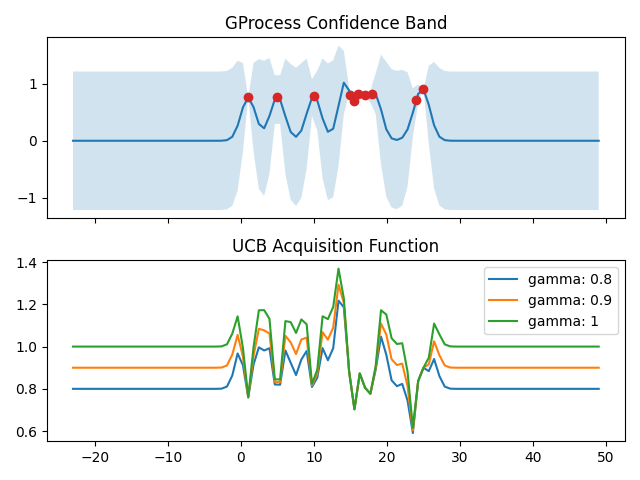
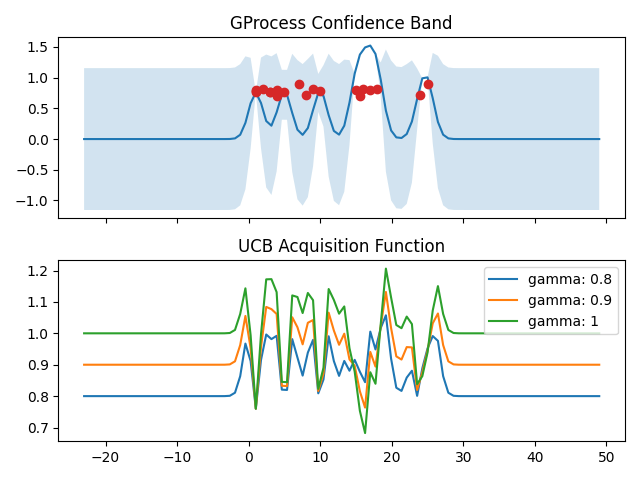
reload the STBO plot function and implement STBO autograd & ADAM optimization algorithm

diff --git a/optimization.py b/optimization.py
@@ -297,7 +297,7 @@ class ShapeTransferBO(ExpectedImprovement, UpperConfidenceBound):
     def compute_mle_sigma2(self):
         """
         compute the MLE of sigma^2 in GP1 + diffGP
-        Note: GP1 
+        Note: GP1 is simply treated as constant function without randomness
         """
         sigma2_hat = self.diffGP.compute_mle_sigma2()
 
@@ -323,6 +323,72 @@ class ShapeTransferBO(ExpectedImprovement, UpperConfidenceBound):
 
         return grad_var
 
+    def plot_ei(self, num_points=100, exp_ratio=1, confidence=0.9, kessis=[0.0], highlight_point=None):
+        "plot the acquisition function as well as ZeroGP in a figure with two figs"
+        min_point_exp1 = min(self.zeroGP1.X)[0]
+        min_point_exp2 = min(self.X)[0]
+        min_point = min(min_point_exp1, min_point_exp2)
+
+        max_point_exp1 = max(self.zeroGP1.X)[0]
+        max_point_exp2 = max(self.X)[0]
+        max_point = max(max_point_exp1, max_point_exp2)
+
+        delta = max_point - min_point
+
+        x_draw = np.linspace(min_point-exp_ratio*delta, max_point+exp_ratio*delta, num_points)
+
+        # subplot 1: GProcess means & confidence bands of GP2 (normal zero GP on data 2) and STBO
+        GP2_only = ZeroGProcess()
+        GP2_only.X = self.X
+        GP2_only.Y = self.Y
+        y2Only_mean = [GP2_only.compute_mean([ele]) for ele in x_draw]
+        y2Only_conf_int = [GP2_only.conf_interval([ele], confidence) for ele in x_draw]
+        y2Only_lower = [ele[0] for ele in y2Only_conf_int]
+        y2Only_upper = [ele[1] for ele in y2Only_conf_int]
+
+        y_mean = [self.compute_mean([ele]) for ele in x_draw]
+        y_conf_int = [self.conf_interval([ele], confidence) for ele in x_draw]
+        y_lower = [ele[0] for ele in y_conf_int]
+        y_upper = [ele[1] for ele in y_conf_int]
+
+        # subplot 2: EI AC function with multiple parameters 
+        ac_values_lst = []
+        if isinstance(kessis, list):
+            for kessi in kessis:
+                ac_kessi = [self.aux_func_ei([ele], kessi) for ele in x_draw]
+                ac_values_lst.append(ac_kessi)
+        elif isinstance(kessis, float):
+            ac_kessi = [self.aux_func_ei([ele], kessis) for ele in x_draw]
+            ac_values_lst.append(ac_kessi)
+            kessis = [kessis]
+
+        fig, (ax_gp, ax_ac) = plt.subplots(2, 1, sharex=True)
+
+        # GP2 only 
+        ax_gp.set_title("GProcess Confidence Band")
+        ax_gp.plot(x_draw, y2Only_mean, label="GP2 Only")
+        ax_gp.fill_between(x_draw, y2Only_lower, y2Only_upper, alpha=0.2)
+        ax_gp.plot(GP2_only.X, GP2_only.Y, 'o', color="tab:red")
+
+        # STBO 
+        ax_gp.plot(x_draw, y_mean, label="STBO")
+        ax_gp.fill_between(x_draw, y_lower, y_upper, alpha=0.2)
+        ax_gp.plot(self.X, self.Y, 'o', color="tab:red")
+        ax_gp.legend()
+
+        # STBO AC function 
+        ax_ac.set_title("STBO EI Acquisition Function")
+        for ac_value, kessi in zip(ac_values_lst, kessis):
+            ax_ac.plot(x_draw, ac_value, label="kessi: "+str(kessi))
+
+        if highlight_point != None:
+            ax_ac.plot(highlight_point[0], highlight_point[1], 'o', color="tab:red")
+
+        ax_ac.legend()
+        fig.tight_layout()
+        fig.savefig("./example_stbo_ac_ei.png")
+
+        return 0
 
 class BiasCorrectedBO(ZeroGProcess):
     """

diff --git a/main.py b/main.py
@@ -24,7 +24,7 @@ if __name__ == "__main__":
     print("Grad at ", x2, " ", EI.auto_grad_ei(x2))
     print("Gard at ", x1, " ", EI.auto_grad_ei(x1))
 
-    start_points = [[12,3], [3,1], [13,12], [23,11]]
+    start_points = [[12, 3], [3, 1], [13, 12], [23, 11]]
     next_point, next_point_aux = EI.find_best_NextPoint_ei(start_points, learn_rate=0.5, num_step=10)
     #EI.plot_ei(kessis=[0.0], highlight_point=[next_point, next_point_aux])
 
@@ -46,9 +46,13 @@ if __name__ == "__main__":
     print(STBO.compute_mle_sigma2())
     print(STBO.diffGP.compute_mle_sigma2())
 
-    x1 = [1.5, 23]
+    x1 = [15]
     print(STBO.aux_func_ei(x1))
-    #STBO.plot_ei(highlight_point=[1, STBO.aux_func_ei([1])])
+    STBO.plot_ei(highlight_point=[15, STBO.aux_func_ei([15])])
 
-    print("grad at ", x1, " ", STBO.auto_grad_ei(x1))
+    for x_k in range(10, 20, 1):
+        print("grad at ", x_k, " ", STBO.auto_grad_ei([x_k]))
 
+    start_points = [[0], [11], [15]]
+    next_point, next_point_aux = STBO.find_best_NextPoint_ei(start_points, learn_rate=0.5, num_step=100)    
+    STBO.plot_ei(kessis=[0.0], highlight_point=[next_point, next_point_aux])
